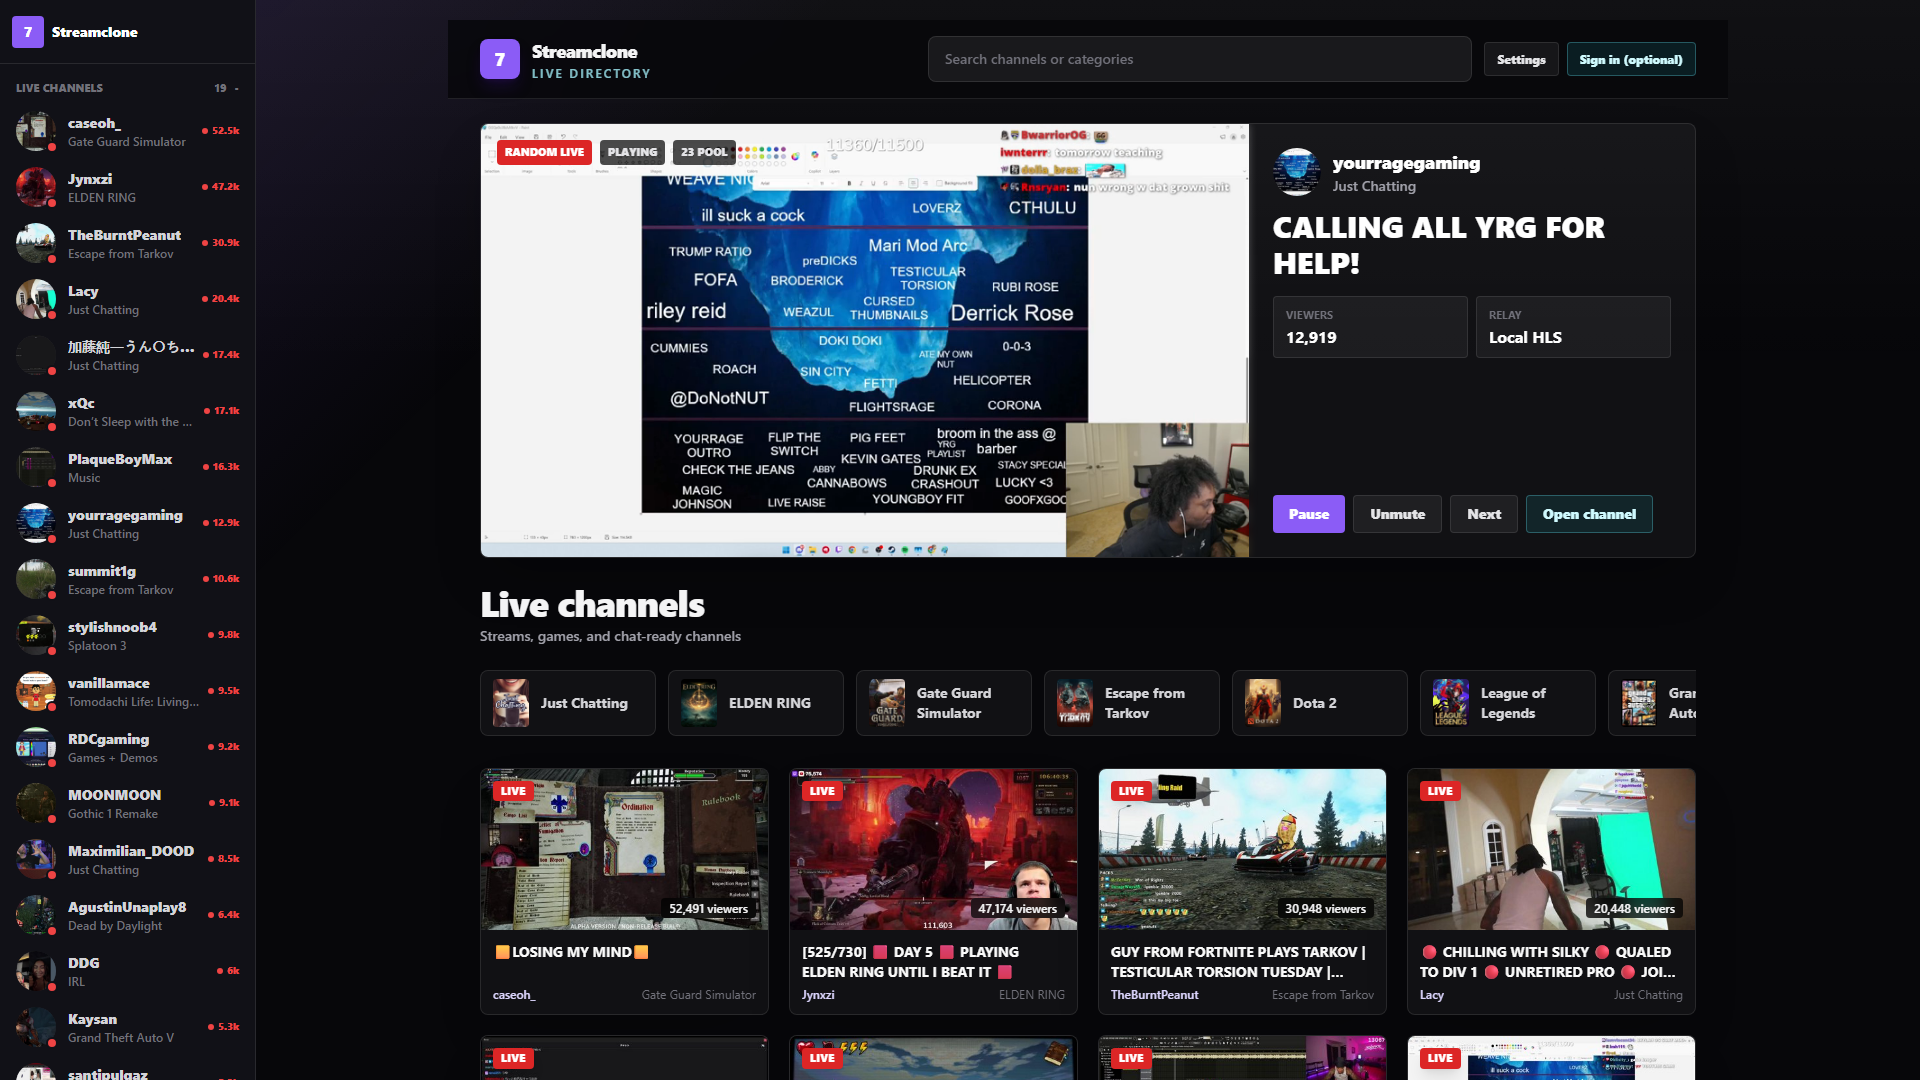
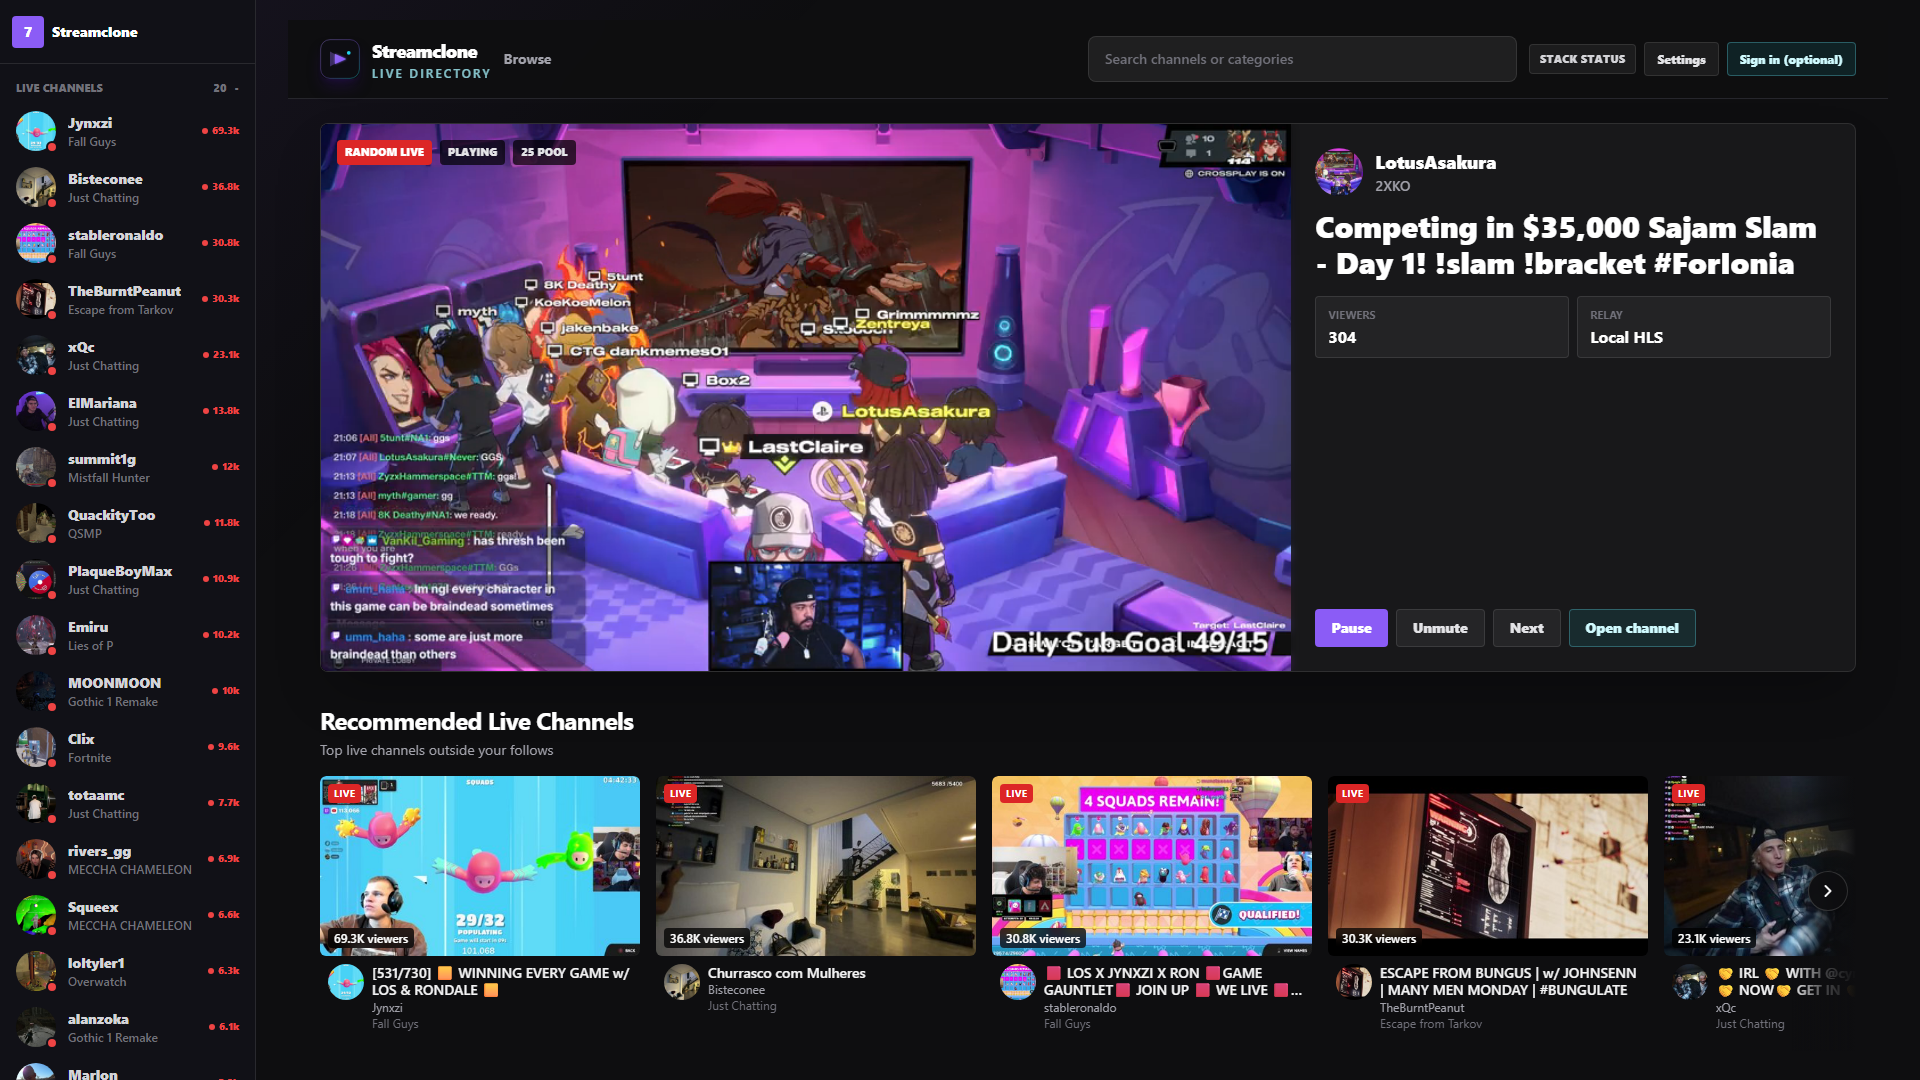
docs: refresh README showcase

diff --git a/README.md b/README.md
@@ -4,15 +4,15 @@
 
 # Streamclone
 
-Self-hosted Twitch-style directory with live HLS playback, chat, 7TV emotes, Analytics, and optional Clip Studio. Apache-2.0. Not affiliated with Twitch or 7TV.
+Self-hosted Twitch-style directory with live HLS playback, chat, 7TV emotes, Analytics with chat and emote spike views, optional Clip Studio, and Pulse dashboards. Apache-2.0. Not affiliated with Twitch or 7TV.
 
 ## Start Here
 
 Need: Docker Desktop running.
 
-1. Download `Streamclone-Setup-*.exe` from [Releases](https://github.com/Aron-Chu/streamclone/releases/latest).
+1. Download `Streamclone-Setup-v*.exe` from [Releases](https://github.com/Aron-Chu/streamclone/releases/latest).
 2. Run it.
-3. Open `http://localhost:8090/`.
+   If Windows or antivirus blocks the unsigned EXE, use `Install Streamclone.cmd` from the release ZIP instead.
 
 Daily use: launch **Streamclone** from the Desktop shortcut. Stop, repair, update, and uninstall are in the manager menu.
 
@@ -34,11 +34,15 @@ make setup
 
 ## Preview
 
-<img src="docs/images/directory.gif" alt="Directory" width="720" />
+<img src="docs/images/directory.gif" alt="Live directory" width="720" />
 
-<img src="docs/images/channel.gif" alt="Channel" width="720" />
+<img src="docs/images/channel.gif" alt="Channel playback, chat, and emotes" width="720" />
 
-Regenerate preview media with `make docs-media` while the stack is running.
+<img src="docs/images/analytics.gif" alt="Analytics charts" width="720" />
+
+<img src="docs/images/pulse.gif" alt="Emote Pulse Grafana dashboard" width="720" />
+
+Regenerate preview media with `powershell -File scripts\capture-showcase-media.ps1` while the stack and Pulse dashboard are running.
 
 ## Stack
 
